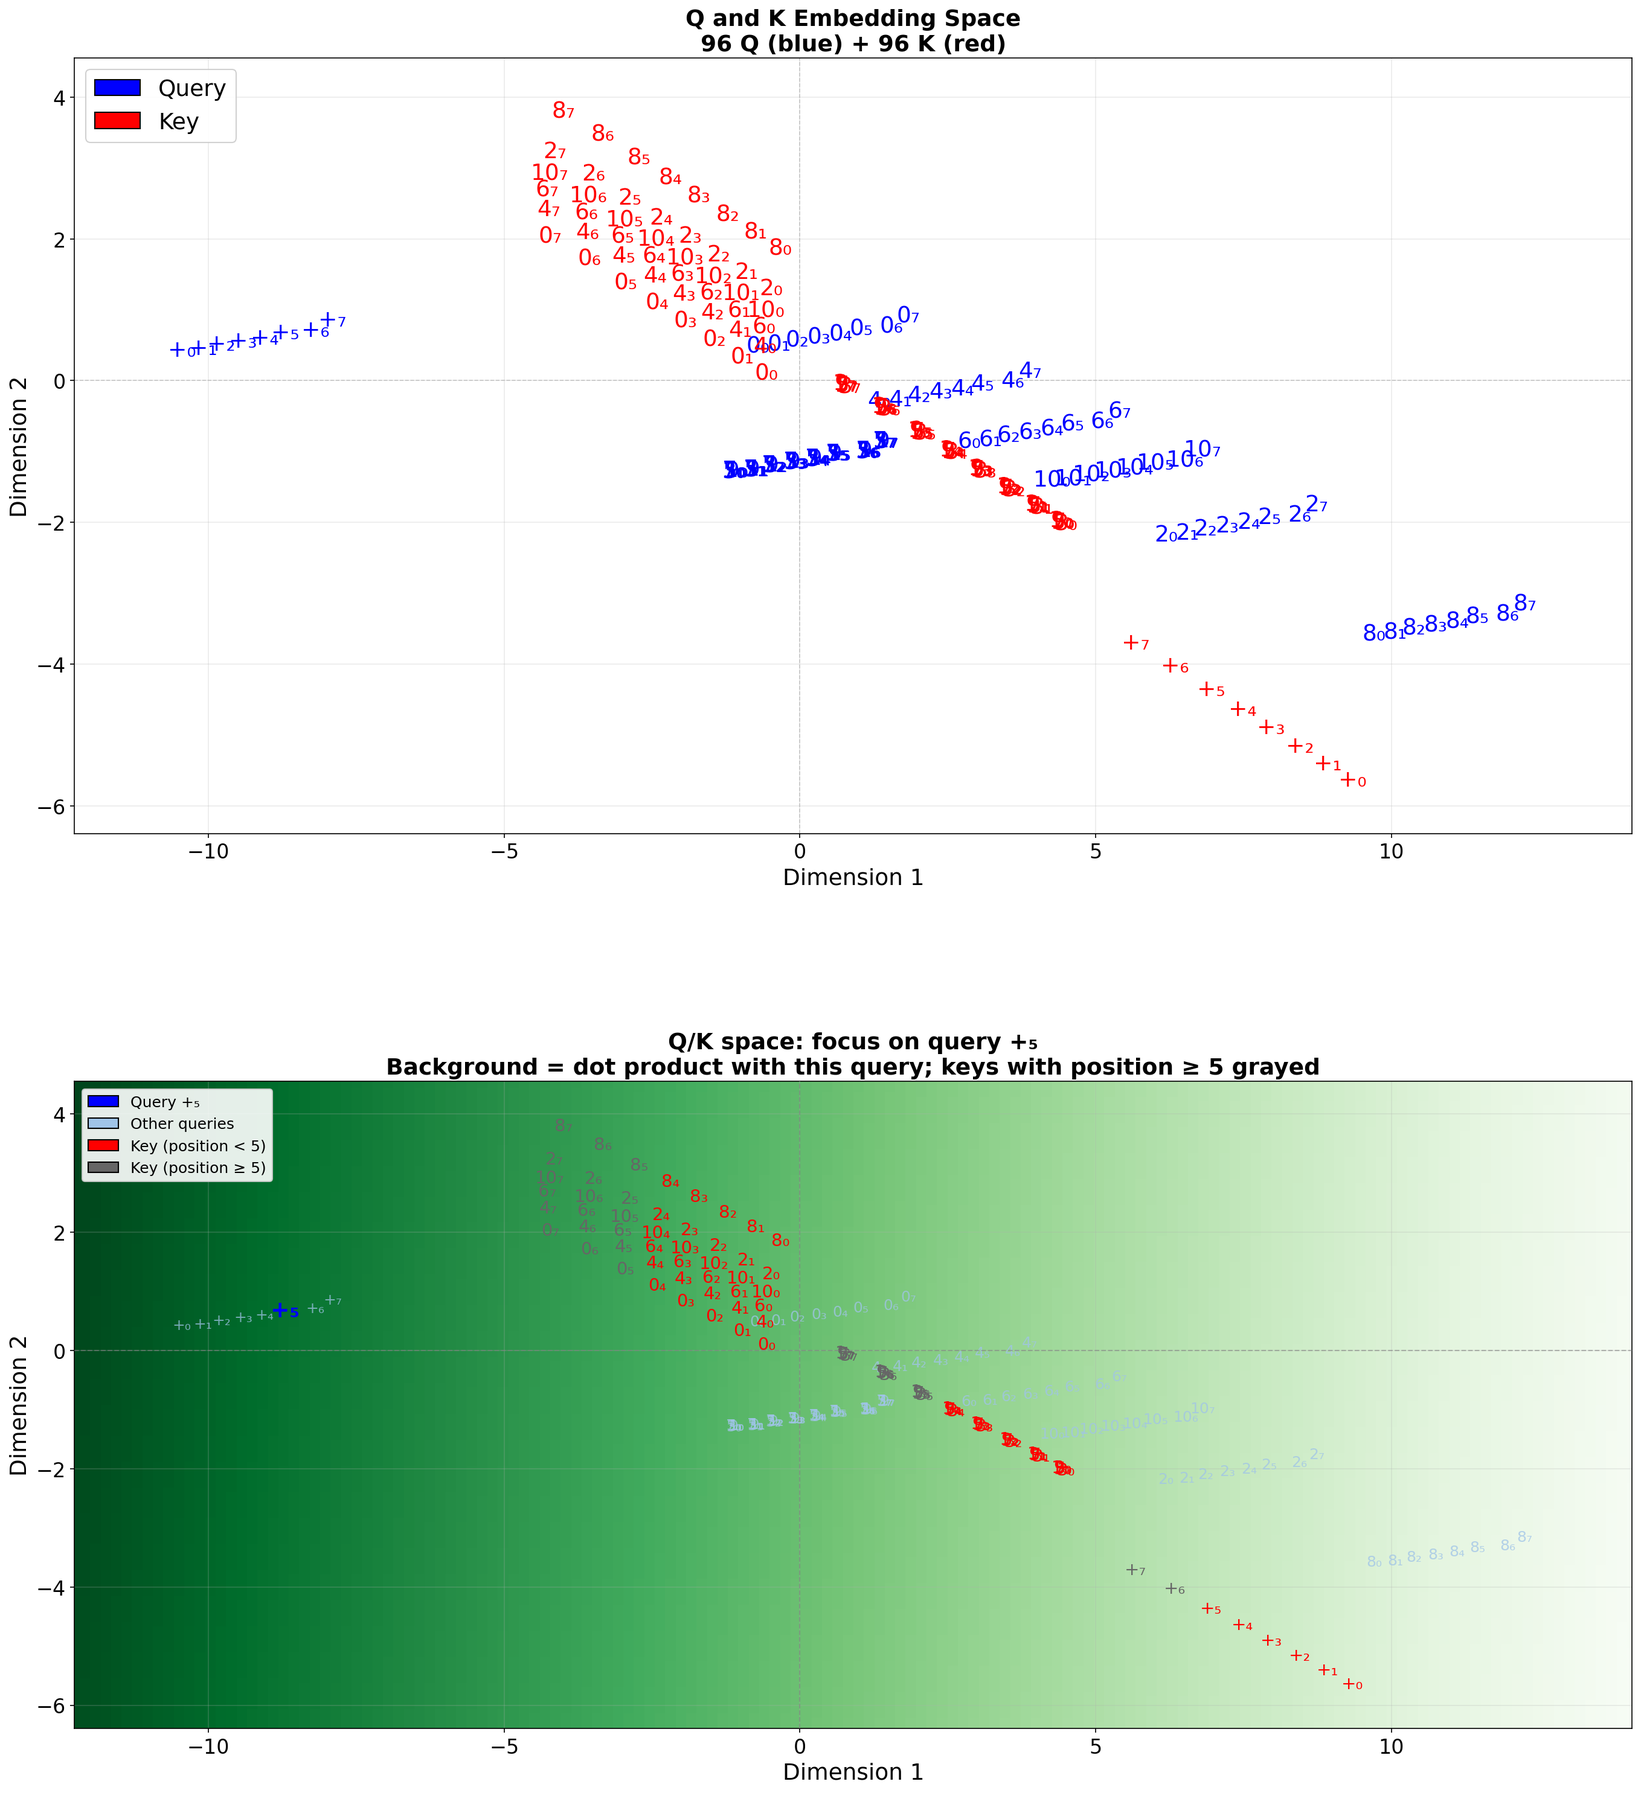
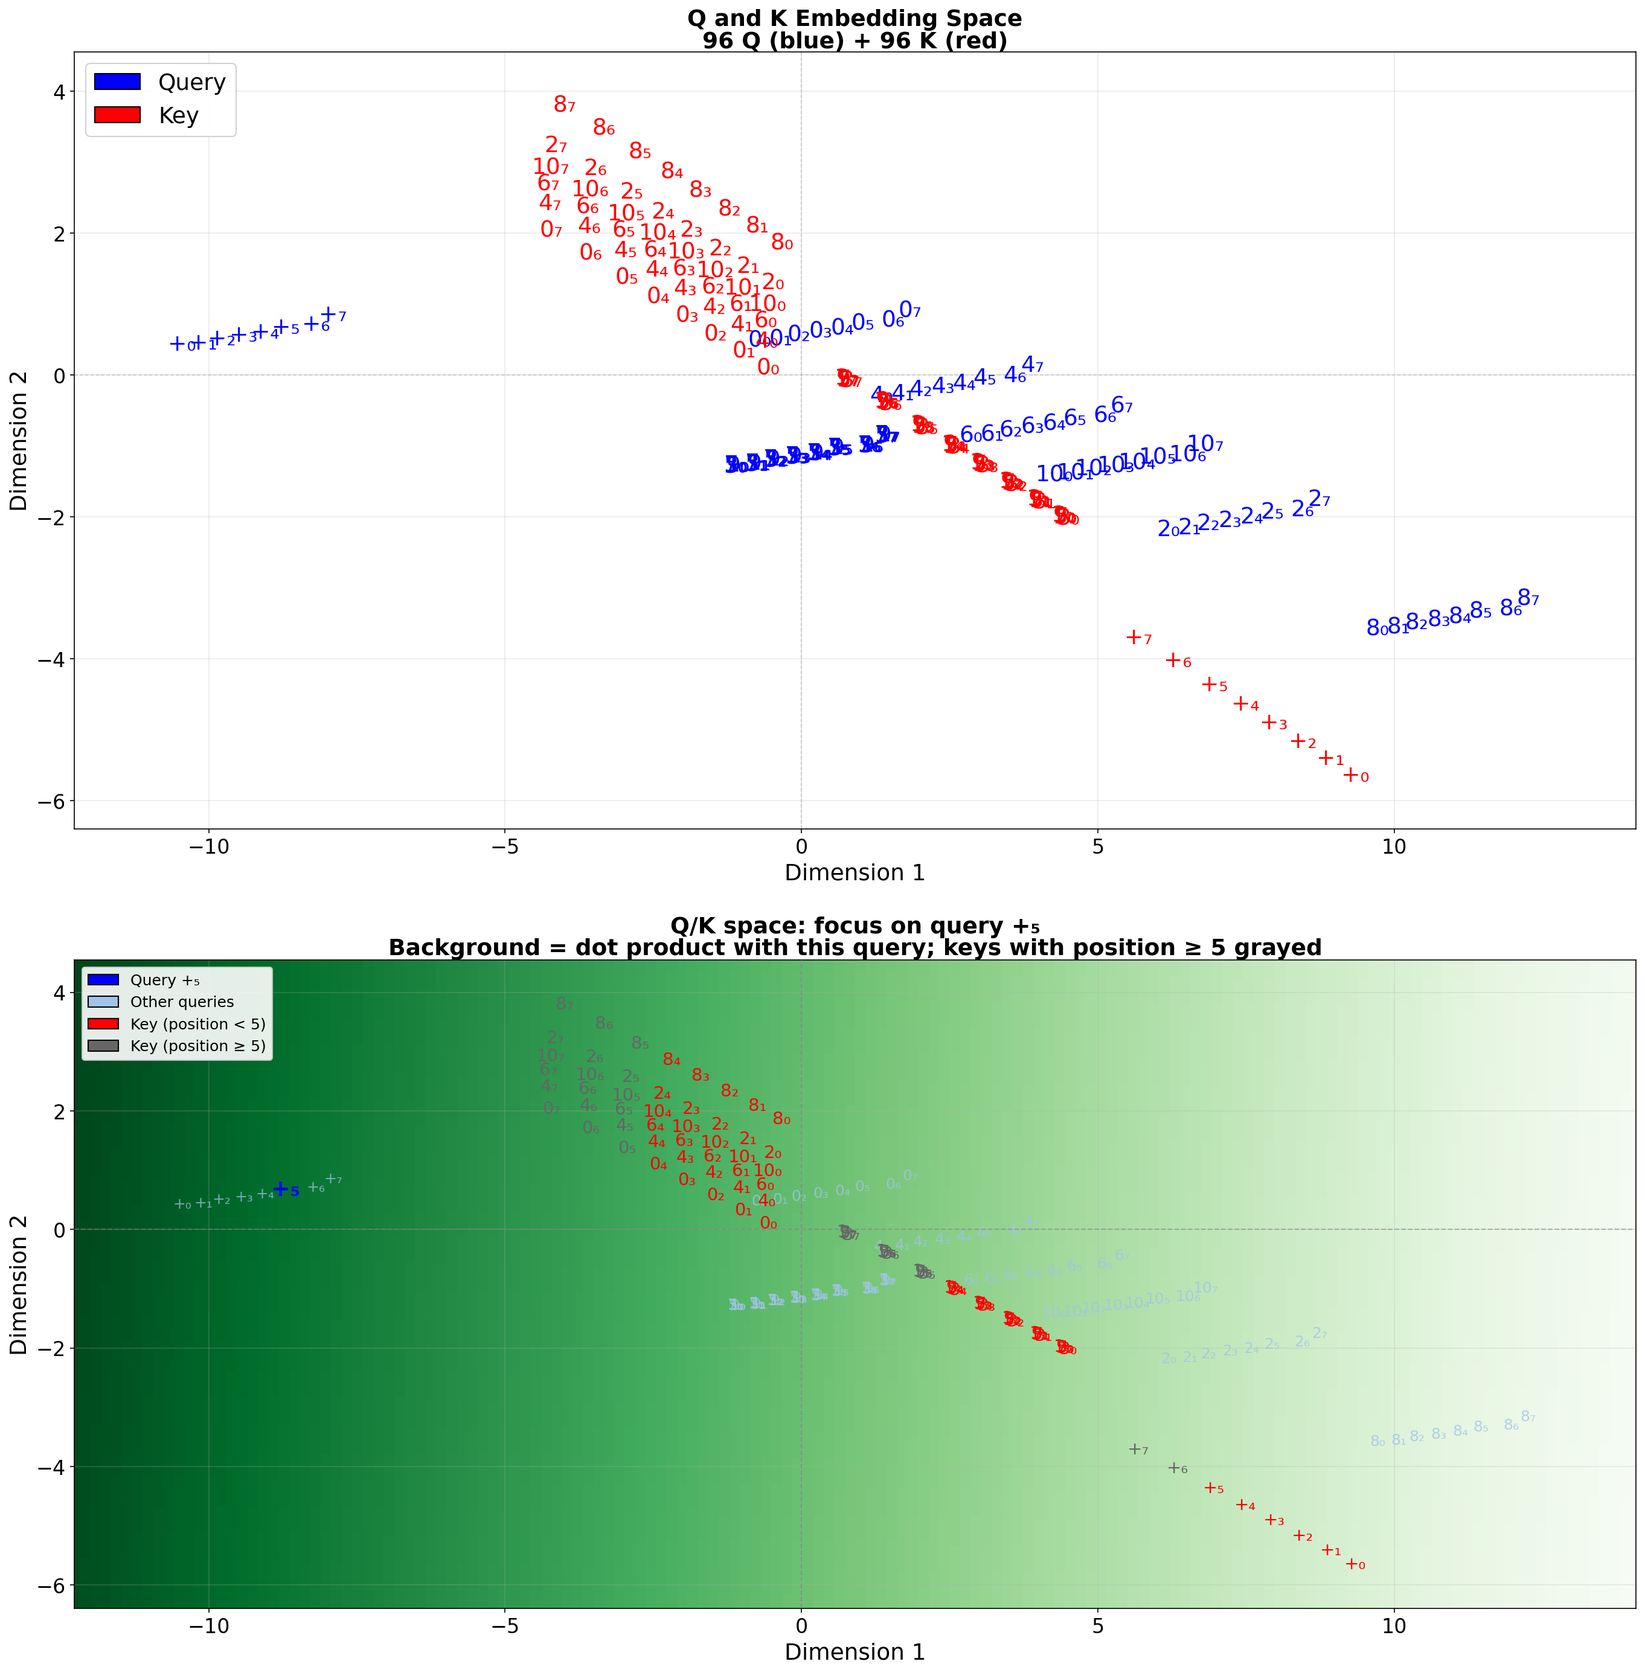
spaces/ some edits

diff --git a/paper.tex b/paper.tex
@@ -3,6 +3,8 @@
 \PassOptionsToPackage{hyphens}{url}
 \documentclass[
 ]{article}
+\raggedbottom
+\usepackage[top=0.9in]{geometry}
 \usepackage{xcolor}
 \usepackage{amsmath,amssymb}
 \setcounter{secnumdepth}{-\maxdimen} % remove section numbering
@@ -132,13 +134,13 @@ integer sequences. By constraining the embedding dimension to
 full two-dimensional visualization of every internal representation ---
 embeddings, query/key/value transforms, attention outputs, residual
 streams, and the language-model head's decision boundaries. Our central
-claim is that \textbf{the learned geometry implies an algorithm}: the
-arrangement of points and boundaries in \(\mathbb{R}^2\) can be read as
-a step-by-step procedure. Using a simple task where the model must
-produce the most recent even number whenever it sees the `+' operator,
-we show how the model embeds the tokens and their respective positions
-in the sequence, transforms them via the Q, K, and V matrices, uses the
-dot product between the Q and K representations to form the attention
+claim is that the learned geometry implies an algorithm: the arrangement
+of points and boundaries in \(\mathbb{R}^2\) can be read as a
+step-by-step procedure. Using a simple task where the model must produce
+the most recent even number whenever it sees the `+' operator, we show
+how the model embeds the tokens and their respective positions in the
+sequence, transforms them via the Q, K, and V matrices, uses the dot
+product between the Q and K representations to form the attention
 matrix, and uses the attention matrix to select values that move the
 representation of each input token to the region of the domain of the LM
 head that will correctly predict the next token. We introduce a suite of
@@ -161,10 +163,10 @@ high-dimensional and opaque: one can probe attention or activations, but
 a complete picture of information flow from input to output is often
 difficult to obtain.
 
-We address this problem with \textbf{minimal transformers}: models that
-retain the full structure of a decoder-only transformer (token and
-positional embeddings, single-head causal self-attention, residual
-connections, a feedforward layer, and an LM head) but are constrained to
+We address this problem with minimal transformers: models that retain
+the full structure of a decoder-only transformer (token and positional
+embeddings, single-head causal self-attention, residual connections, a
+feedforward layer, and an LM head) but are constrained to
 two-dimensional embeddings and head dimension. Every internal state ---
 embeddings, queries, keys, values, attention outputs, residual sums, and
 pre-softmax logit vectors --- lives in \(\mathbb{R}^2\). Dimentionality
@@ -248,8 +250,6 @@ feedforward network (a two-layer MLP applied independently to each
 position), with a residual connection around each sub-layer, followed by
 a linear language-model head that maps the final hidden state to
 vocabulary logits (Figure 1). Table 1 lists all hyperparameters.
-
-\newpage
 
 \begin{longtable}[]{@{}ll@{}}
 \caption{Model hyperparameters.}\label{tbl:hyperparams}\tabularnewline
@@ -350,13 +350,14 @@ P(t_{i+1} \mid \mathbf{h}_i) &= \mathrm{softmax}\!\left(\mathbf{h}_i \, W_{\math
 \]
 
 \begin{center}
-\pandocbounded{\includegraphics[keepaspectratio,alt={Architecture Overview}]{plus_last_even/plots/a4/01_architecture_overview.png}}
-\end{center}
+\begin{minipage}{\linewidth}
+\centering
+\includegraphics[width=0.68\linewidth,keepaspectratio]{plus_last_even/plots/a4/01_architecture_overview.png}
 
 \emph{\textbf{Figure 1.} Architecture of the minimal transformer. Every
 component operates entirely in \(\mathbb{R}^2\).}
-
-\begin{center}\rule{0.5\linewidth}{0.5pt}\end{center}
+\end{minipage}
+\end{center}
 
 \subsubsection{2.3 Training}\label{training}
 
@@ -399,8 +400,6 @@ Evaluation interval & every 200 steps \\
 Evaluation iterations & 50 batches \\
 Checkpoint interval & every 100 steps \\
 \end{longtable}
-
-\begin{center}\rule{0.5\linewidth}{0.5pt}\end{center}
 
 \subsection{3. Results}\label{results}
 
@@ -496,6 +495,14 @@ summed token+position embeddings retains the odd/even/`+' organization
 of the token embeddings, while the `micro'-level geometry preserves the
 ladder structure of the position embeddings.
 
+We emphasize that this geometric structure does not exist at
+initialization; it is learned. Movie 1 shows the embedding space at
+every checkpoint across training. At step 0, all points are randomly
+scattered. Within the first few thousand steps, the \texttt{+} token
+rapidly migrates away from the number tokens. The even/odd split
+solidifies between steps 5,000 and 10,000, and the position embedding
+ladder organizes gradually throughout training.
+
 \pandocbounded{\includegraphics[keepaspectratio,alt={Token Embeddings}]{plus_last_even/plots/a4/05_token_embeddings.png}}
 \emph{\textbf{Figure 5.} Learned embeddings. (a) Token embeddings
 \(\mathbf{x_i}\) shown as heatmap. (b) Position embeddings
@@ -504,14 +511,8 @@ embeddings shown as scatterplot. (d) Positions \(\mathbf{p_i}\) shown as
 scatterplot. (e) Token+position embeddings \(\mathbf{e_i}\) shown as
 scatterplot. }
 
-We emphasize that this geometric structure does not exist at
-initialization; it is learned. Movie 1 shows the embedding space at
-every checkpoint across training. At step 0, all points are randomly
-scattered. Within the first few thousand steps, the \texttt{+} token
-rapidly migrates away from the number tokens. The even/odd split
-solidifies between steps 5,000 and 10,000, and the position embedding
-ladder organizes gradually throughout training. \#\#\# 3.3 The Attention
-Mechanism: Query, Key, and Value Projections
+\subsubsection{3.3 The Attention Mechanism: Query, Key, and Value
+Projections}\label{the-attention-mechanism-query-key-and-value-projections}
 
 The combined embeddings \(\mathbf{e}_i\) alone are not sufficient for
 the model to obey the plus-last-even rule, due to the rule's conditional
@@ -597,13 +598,18 @@ The \texttt{+} query thus acts as a selective filter that picks out
 even-number keys from the past context, with recency biasing the
 selection toward the most recent one.
 
-\pandocbounded{\includegraphics[keepaspectratio,alt={Q/K embedding space and focused query}]{plus_last_even/plots/a4/09_10_qk_space_combined.png}}
+\begin{samepage}
+\begin{center}
+\includegraphics[width=0.92\linewidth,keepaspectratio,alt={Q/K embedding space and focused query}]{plus_last_even/plots/a4/09_10_qk_space_combined.png}
+\end{center}
 \emph{\textbf{Figure 7.} Query--key geometry in Q/K space. \textbf{Top:}
 joint query--key space (blue: queries; red: keys; labels show token and
 position). \textbf{Bottom:} dot-product landscape for the query
 \texttt{+} at position 5; background color is
 \(\mathbf{q}_{+_5}^\top \mathbf{k}\), and keys with position \(\geq 5\)
 are grayed by the causal mask.}
+\end{samepage}
+\newpage
 
 Movie 4 reveals how this structure develops over the course of training.
 At initialization, queries and keys are intermingled with no meaningful
@@ -772,7 +778,7 @@ embedding space, and the position of each token in the sequence
 determines where it appears in the ``ladder'' structure for that token.
 
 \pandocbounded{\includegraphics[keepaspectratio,alt={Sequence Embeddings}]{plus_last_even/plots/a4/13_sequence_embeddings.png}}
-*\textbf{Figure 11.} Embeddings for the demo sequence
+\textbf{Figure 11.} Embeddings for the demo sequence
 \texttt{4\ 1\ +\ 4\ 6\ 9\ 5\ +}. \textbf{a-c:} Embedding heatmaps for
 tokens, positions and token+position. \textbf{d--f:} 2D scatter plot
 views of tokens, positions, and token+position combinations, shown over

diff --git a/plotting/09_qk_embedding_space.py b/plotting/09_qk_embedding_space.py
@@ -347,15 +347,17 @@ def plot_qk_embedding_space_combined(
 
     # Prefer constrained layout for multi-panel text-heavy figures.
     if _u._JOURNAL_MODE:
-        fig = plt.figure(figsize=(7.0, 9.5), constrained_layout=True)
+        fig = plt.figure(figsize=(7.0, 8.8), constrained_layout=True)
     else:
-        fig = plt.figure(figsize=(18, 20), constrained_layout=True)
+        fig = plt.figure(figsize=(18, 18.5), constrained_layout=True)
+    # Reduce vertical whitespace between stacked panels in the combined figure.
+    fig.set_constrained_layout_pads(hspace=0.0, h_pad=0.0, wspace=0.02, w_pad=0.02)
 
     if step_label is not None:
         _suptitle_fs = 10 if _u._JOURNAL_MODE else 18
         fig.suptitle(f"Step: {step_label}", fontsize=_suptitle_fs, fontweight="bold", y=0.99)
 
-    gs = GridSpec(2, 1, figure=fig, height_ratios=[1.0, 1.05], hspace=0.12)
+    gs = GridSpec(2, 1, figure=fig, height_ratios=[1.0, 1.03], hspace=0.0)
     ax_top = fig.add_subplot(gs[0, 0])
     ax_bottom = fig.add_subplot(gs[1, 0])
 
@@ -385,7 +387,7 @@ def plot_qk_embedding_space_combined(
     ax_top.tick_params(axis="both", labelsize=tick_fontsize)
     ax_top.set_title(
         f"Q and K Embedding Space\n{num_combinations} Q (blue) + {num_combinations} K (red)",
-        fontsize=title_fontsize, fontweight="bold",
+        fontsize=title_fontsize, fontweight="bold", pad=2, linespacing=1.0,
     )
     ax_top.axhline(y=0, color="gray", linestyle="--", linewidth=0.8, alpha=0.4, zorder=0.5)
     ax_top.axvline(x=0, color="gray", linestyle="--", linewidth=0.8, alpha=0.4, zorder=0.5)
@@ -448,7 +450,7 @@ def plot_qk_embedding_space_combined(
     ax_bottom.set_title(
         f"Q/K space: focus on query {_token_pos_label(token_str, position)}\n"
         f"Background = dot product with this query; keys with position ≥ {position} grayed",
-        fontsize=title_fontsize, fontweight="bold",
+        fontsize=title_fontsize, fontweight="bold", pad=2, linespacing=1.0,
     )
     ax_bottom.axhline(y=0, color="gray", linestyle="--", linewidth=1.0, alpha=0.55, zorder=10)
     ax_bottom.axvline(x=0, color="gray", linestyle="--", linewidth=1.0, alpha=0.55, zorder=10)

diff --git a/Paper.md b/Paper.md
@@ -10,7 +10,7 @@ Toviah Moldwin, Raneem Mahajne, and Idan Segev
 Edmond and Lily Safra Center for Brain Sciences, The Hebrew University of Jerusalem
 
 > **Abstract.**
-> We present a framework for building and interpreting minimal transformer language models trained on procedurally-generated integer sequences. By constraining the embedding dimension to $n_{\mathrm{embed}} = 2$ and the head size to $d_k = 2$, we enable full two-dimensional visualization of every internal representation — embeddings, query/key/value transforms, attention outputs, residual streams, and the language-model head's decision boundaries. Our central claim is that **the learned geometry implies an algorithm**: the arrangement of points and boundaries in $\mathbb{R}^2$ can be read as a step-by-step procedure. Using a simple task where the model must produce the most recent even number whenever it sees the '+' operator, we show how the model embeds the tokens and their respective positions in the sequence, transforms them via the Q, K, and V matrices, uses the dot product between the Q and K representations to form the attention matrix, and uses the attention matrix to select values that move the representation of each input token to the region of the domain of the LM head that will correctly predict the next token. We introduce a suite of interpretability visualizations that make the  algorithmic interpretation of this procedure explicit, and provide training-evolution animations showing how the algorithmic geometry emerges during learning. The framework offers a pedagogical and experimental testbed to explore how transformers (Vaswani et al., 2017) use informational geometry to solve tasks.
+> We present a framework for building and interpreting minimal transformer language models trained on procedurally-generated integer sequences. By constraining the embedding dimension to $n_{\mathrm{embed}} = 2$ and the head size to $d_k = 2$, we enable full two-dimensional visualization of every internal representation — embeddings, query/key/value transforms, attention outputs, residual streams, and the language-model head's decision boundaries. Our central claim is that the learned geometry implies an algorithm: the arrangement of points and boundaries in $\mathbb{R}^2$ can be read as a step-by-step procedure. Using a simple task where the model must produce the most recent even number whenever it sees the '+' operator, we show how the model embeds the tokens and their respective positions in the sequence, transforms them via the Q, K, and V matrices, uses the dot product between the Q and K representations to form the attention matrix, and uses the attention matrix to select values that move the representation of each input token to the region of the domain of the LM head that will correctly predict the next token. We introduce a suite of interpretability visualizations that make the  algorithmic interpretation of this procedure explicit, and provide training-evolution animations showing how the algorithmic geometry emerges during learning. The framework offers a pedagogical and experimental testbed to explore how transformers (Vaswani et al., 2017) use informational geometry to solve tasks.
 
 ---
 
@@ -18,7 +18,7 @@ Edmond and Lily Safra Center for Brain Sciences, The Hebrew University of Jerusa
 
 Understanding how transformers process sequences (Vaswani et al., 2017) remains a central challenge in mechanistic interpretability. Large-scale models achieve strong performance but their internal representations are high-dimensional and opaque: one can probe attention or activations, but a complete picture of information flow from input to output is often difficult to obtain. 
 
-We address this problem with **minimal transformers**: models that retain the full structure of a decoder-only transformer (token and positional embeddings, single-head causal self-attention, residual connections, a feedforward layer, and an LM head) but are constrained to two-dimensional embeddings and head dimension. Every internal state — embeddings, queries, keys, values, attention outputs, residual sums, and pre-softmax logit vectors — lives in $\mathbb{R}^2$. Dimentionality reduction techniques such as PCA, t-SNE (van der Maaten & Hinton, 2008), or UMAP are not required; the information geometry learned by the model is directly visible in the 2D plane.
+We address this problem with minimal transformers: models that retain the full structure of a decoder-only transformer (token and positional embeddings, single-head causal self-attention, residual connections, a feedforward layer, and an LM head) but are constrained to two-dimensional embeddings and head dimension. Every internal state — embeddings, queries, keys, values, attention outputs, residual sums, and pre-softmax logit vectors — lives in $\mathbb{R}^2$. Dimentionality reduction techniques such as PCA, t-SNE (van der Maaten & Hinton, 2008), or UMAP are not required; the information geometry learned by the model is directly visible in the 2D plane.
 We can take advantage of this direct visibility to demonstrate how the information geometry of the transformer can be straightforwardly interpreted as an algorithmic procedure. 
 
 ### 1.1 Related work
@@ -59,7 +59,6 @@ Positions not immediately following `+` are unconstrained — any token may appe
 
 The model is a single-layer, single-head, decoder-only causal transformer — the minimal instance of the GPT-style architecture of Radford et al. (2018), using scaled dot-product self-attention as in Vaswani et al. (2017). It processes tokens autoregressively: at each position it conditions on the preceding tokens within a fixed context window of $T = 8$ and produces a distribution over the next token. The single transformer block contains one causal self-attention head and a feedforward network (a two-layer MLP applied independently to each position), with a residual connection around each sub-layer, followed by a linear language-model head that maps the final hidden state to vocabulary logits (Figure 1). Table 1 lists all hyperparameters.
 
-\newpage
 
 | Parameter | Value |
 |-----------|-------|
@@ -255,7 +254,7 @@ As we showed earlier, the even, odd and `+` token embeddings are separated from 
 
 
 ![Sequence Embeddings](plus_last_even/plots/a4/13_sequence_embeddings.png)
-***Figure 11.** Embeddings for the demo sequence `4 1 + 4 6 9 5 +`. **a-c:** Embedding heatmaps for tokens, positions and token+position.
+**Figure 11.** Embeddings for the demo sequence `4 1 + 4 6 9 5 +`. **a-c:** Embedding heatmaps for tokens, positions and token+position.
  **d–f:** 2D scatter plot views of tokens, positions, and token+position combinations, shown over a backdrop of all possible tokens, position, and token+position embeddings (light gray).
 
 **Attention.** The model must compute the attention matrix for this sequence by forming $\mathbf{Q}, \mathbf{K} \in \mathbb{R}^{T \times d_k}$ for the $T$ positions and taking dot products between query rows and key rows (equivalently, the matrix $\mathbf{Q}\mathbf{K}^\top$). Figure 12 shows the Q and K heatmaps for the representation of the tokens within this sequence, and panel c shows these Q and K embedding on the same scatterplot against a backdrop of all 96 possible queries and keys, as in Figure 7.
